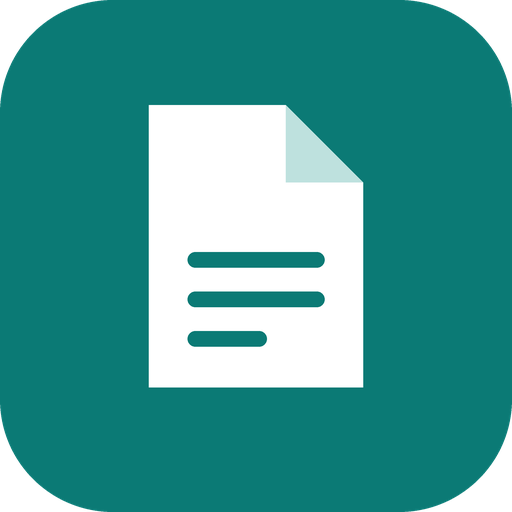
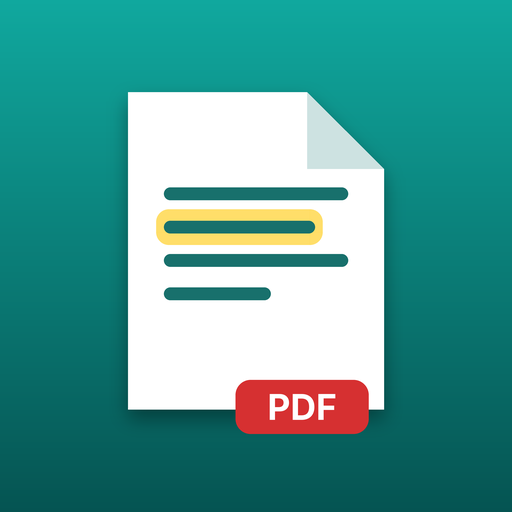
v16: multilingue fr/en, À propos et licences, partage natif, nouvelle icône, pages confidentialité et support
Claude-Session: https://claude.ai/code/session_01PmVsqk67Q3FkcGywPKM6xi

diff --git a/app.js b/app.js
@@ -64,6 +64,7 @@ const clamp=(v,a,b)=>Math.min(b,Math.max(a,v));
 const ZSTEPS=[.25,.33,.5,.67,.75,.9,1,1.1,1.25,1.5,1.75,2,2.5,3,4];
 
 let toastT=0;
+window.__toast=(m,ms)=>toast(m,ms);
 function toast(msg,ms){const t=$('#toast');t.textContent=msg;t.hidden=false;clearTimeout(toastT);toastT=setTimeout(()=>{t.hidden=true},PWA?3000:(ms||3600))}
 function busy(on,msg){const b=$('#busy');b.hidden=!on;if(msg)b.textContent=msg}
 
@@ -966,7 +967,7 @@ function updateCnt(){
 function renderList(){
   const box=$('#sList');
   if(!S.hits.length){
-    box.innerHTML=(S.q&&S.q.trim()&&!/Expression/.test($('#sCnt').textContent))?'<div class="sn">Aucun résultat.</div>':'';
+    box.innerHTML=(S.q&&S.q.trim()&&!/xpression/i.test($('#sCnt').textContent))?'<div class="sn">Aucun résultat.</div>':'';
     return;
   }
   const per={};for(const h of S.hits)per[h.n]=(per[h.n]||0)+1;
@@ -1097,7 +1098,7 @@ function updateCnt2(){
 function renderList2(){
   const box=$('#sList2');
   if(!S.hits2.length){
-    box.innerHTML=(S.q2&&S.q2.trim()&&!/Expression/.test($('#sCnt2').textContent))?'<div class="sn">Aucun résultat.</div>':'';
+    box.innerHTML=(S.q2&&S.q2.trim()&&!/xpression/i.test($('#sCnt2').textContent))?'<div class="sn">Aucun résultat.</div>':'';
     return;
   }
   const per={};for(const h of S.hits2)per[h.n]=(per[h.n]||0)+1;
@@ -3001,6 +3002,16 @@ const mobileDL={share:true,save({filename,data}){
     ov.innerHTML='<div class="box savebox"><h2>Enregistrer le fichier</h2><input class="inp" id="svName" aria-label="Nom du fichier" autocapitalize="off" autocomplete="off" spellcheck="false"><small>'+mb+' Mo · PDF</small><div class="row"><button class="btn primary" id="svShare">Choisir l\u2019emplacement…</button></div><div class="row">'+(NATIVE?'':'<button class="btn" id="svDl">Télécharger</button>')+'<button class="btn" id="svNo">Annuler</button></div><small>'+(NATIVE?'Le sélecteur de fichiers de l\u2019iPhone s\u2019ouvre : choisissez le dossier (iCloud Drive, Sur mon iPhone, OneDrive…).':'« Choisir l\u2019emplacement » ouvre le menu du téléphone : choisissez <b>Enregistrer dans Fichiers</b> (iPhone) ou votre application de stockage (Android).')+'</small></div>';
     document.body.append(ov);
     const inp=ov.querySelector('#svName');inp.value=base;
+    if(NATIVE){
+      /* iPhone app: also offer the system share sheet (Mail, Messages, AirDrop…) */
+      const sb=document.createElement('button');sb.className='btn';sb.id='svNat';sb.textContent='Partager…';
+      ov.querySelector('.row').appendChild(sb);
+      sb.onclick=async()=>{
+        const b64=await new Promise((ok,ko)=>{const fr=new FileReader();fr.onload=()=>ok(String(fr.result).split(',')[1]||'');fr.onerror=ko;fr.readAsDataURL(data)});
+        window.webkit.messageHandlers.letuspdf.postMessage({type:'share',name:nm(),b64});
+        close();res();
+      };
+    }
     const nm=()=>(inp.value.trim().replace(/[\\/:*?"<>|]+/g,'-')||base).replace(/\.pdf$/i,'')+'.pdf';
     const close=()=>ov.remove();
     ov.querySelector('#svNo').onclick=()=>{close();const e=new Error('declined');e.code='declined';rej(e)};
@@ -3454,7 +3465,7 @@ if(PWA){
 
 /* ---------- phone layout: header, bottom tool bar and "Plus" sheet (installed web app, small touch screen) ---------- */
 if(PWA){
-  const APP_VER='v15';
+  const APP_VER='v16';
   const root=document.documentElement,mq=matchMedia('(pointer:coarse) and (max-width:700px)');
   const setPhone=()=>root.classList.toggle('phone',mq.matches);
   setPhone();(mq.addEventListener?mq.addEventListener('change',setPhone):mq.addListener(setPhone));
@@ -3516,6 +3527,29 @@ if(PWA){
   const sheet=$('#msheet');
   const close=()=>{sheet.hidden=true;sheetOpen=false};
   const toolOn=sel=>{const e=q(sel);return !!(e&&e.classList.contains('on'))};
+
+  /* About screen: version, privacy, support and the open-source licences the app has to display */
+  const SITE='https://gclaudel2.github.io/letuspdf/';
+  function showAbout(){
+    let o=$('#mAbout');if(o)o.remove();
+    o=document.createElement('div');o.id='mAbout';
+    o.style.cssText='position:fixed;inset:0;z-index:70;background:var(--bg);color:var(--fg,inherit);overflow:auto;-webkit-overflow-scrolling:touch;padding:max(18px,env(safe-area-inset-top)) 18px max(24px,env(safe-area-inset-bottom));font-size:15px;line-height:1.5';
+    const MIT=(n)=>'<p><b>'+n+'</b> — MIT License</p>';
+    o.innerHTML='<div style="display:flex;align-items:center;gap:12px;margin-bottom:14px"><button class="btn" id="abX" style="min-height:44px">Fermer</button><h2 style="margin:0;font-size:20px">Let Us PDF <small style="font-weight:400;opacity:.6">'+APP_VER+'</small></h2></div>'
+      +'<p>Lire et modifier un PDF. Rien n’est envoyé : tout reste sur votre appareil.</p>'
+      +'<p><a href="'+SITE+'privacy.html" target="_blank" rel="noopener">Politique de confidentialité</a><br><a href="'+SITE+'support.html" target="_blank" rel="noopener">Aide et contact</a></p>'
+      +'<h3 style="margin:22px 0 6px;font-size:17px">Licences / Open-source licenses</h3>'
+      +'<div lang="en" style="font-size:13px;opacity:.9">'
+      +'<p>Let Us PDF uses the following open-source software.</p>'
+      +'<p><b>PDF.js</b> — Copyright Mozilla Foundation — Apache License 2.0<br>https://github.com/mozilla/pdf.js</p>'
+      +'<p><b>pdf-lib</b> — Copyright (c) 2019 Andrew Dillon — MIT License<br>https://github.com/Hopding/pdf-lib<br>(includes tslib, Copyright Microsoft Corporation, Apache License 2.0 / 0BSD, and pako, MIT/Zlib)</p>'
+      +'<p><b>fontkit (@pdf-lib/fontkit)</b> — Copyright (c) 2014-present Devon Govett and contributors — MIT License<br>https://github.com/Hopding/fontkit<br>(includes restructure, brotli, unicode-properties, unicode-trie, tiny-inflate, dfa, clone and pako, all MIT)</p>'
+      +'<p><b>Apache License, Version 2.0</b><br>Licensed under the Apache License, Version 2.0 (the “License”); you may not use these components except in compliance with the License. You may obtain a copy of the License at https://www.apache.org/licenses/LICENSE-2.0. Unless required by applicable law or agreed to in writing, software distributed under the License is distributed on an “AS IS” BASIS, WITHOUT WARRANTIES OR CONDITIONS OF ANY KIND, either express or implied. See the License for the specific language governing permissions and limitations under the License.</p>'
+      +'<p><b>MIT License</b><br>Permission is hereby granted, free of charge, to any person obtaining a copy of this software and associated documentation files (the “Software”), to deal in the Software without restriction, including without limitation the rights to use, copy, modify, merge, publish, distribute, sublicense, and/or sell copies of the Software, and to permit persons to whom the Software is furnished to do so, subject to the following conditions: The above copyright notice and this permission notice shall be included in all copies or substantial portions of the Software. THE SOFTWARE IS PROVIDED “AS IS”, WITHOUT WARRANTY OF ANY KIND, EXPRESS OR IMPLIED, INCLUDING BUT NOT LIMITED TO THE WARRANTIES OF MERCHANTABILITY, FITNESS FOR A PARTICULAR PURPOSE AND NONINFRINGEMENT. IN NO EVENT SHALL THE AUTHORS OR COPYRIGHT HOLDERS BE LIABLE FOR ANY CLAIM, DAMAGES OR OTHER LIABILITY, WHETHER IN AN ACTION OF CONTRACT, TORT OR OTHERWISE, ARISING FROM, OUT OF OR IN CONNECTION WITH THE SOFTWARE OR THE USE OR OTHER DEALINGS IN THE SOFTWARE.</p>'
+      +'</div>';
+    document.body.appendChild(o);
+    $('#abX').onclick=()=>o.remove();
+  }
   function drawSheet(){
     $('#mTabs').innerHTML=Object.keys(TABS).map(t=>'<button data-t="'+t+'"'+(t===tab?' class="on"':'')+'>'+t+'</button>').join('');
     const body=$('#mBody');
@@ -3523,7 +3557,9 @@ if(PWA){
       body.innerHTML='<div class="mzoom"><button class="btn" id="zM" aria-label="Zoom arrière">'+ICONS.minus+'</button><span class="zl" id="zL"></span><button class="btn" id="zP" aria-label="Zoom avant">'+ICONS.plus+'</button></div>'
         +'<div class="mgrid"><button id="zFit">'+ICONS.doc+'Ajuster à la page</button></div>'
         +'<div class="mrow"><label for="mPg">Aller à la page</label><input class="inp num" id="mPg" inputmode="numeric" style="width:84px"><span class="lbl" id="mPgT"></span></div>'
-        +'<div class="mrow"><label for="mTh">Thème</label><select class="inp" id="mTh"><option value="auto">Automatique</option><option value="light">Clair</option><option value="dark">Sombre</option></select></div>';
+        +'<div class="mrow"><label for="mTh">Thème</label><select class="inp" id="mTh"><option value="auto">Automatique</option><option value="light">Clair</option><option value="dark">Sombre</option></select></div>'
+        +'<div class="mgrid" style="grid-template-columns:1fr"><button id="mAboutB">'+ICONS.doc+'À propos, confidentialité et licences</button></div>';
+      $('#mAboutB').onclick=()=>{close();showAbout()};
       $('#zM').onclick=()=>click('#bZout');$('#zP').onclick=()=>click('#bZin');
       $('#zFit').onclick=()=>{click('#bFitP')};
       const pg=$('#mPg');pg.value=$('#pgIn').value;$('#mPgT').textContent=$('#pgTot').textContent;
@@ -3590,4 +3626,101 @@ if(PWA){
     syncSheet();
   },250);
 }
+})();
+
+/* ---------- i18n: French (source language) -> English, chosen from the phone's language or the Langue setting ---------- */
+(function(){
+  'use strict';
+  const KEY='letuspdf-lang';
+  let pref='auto';try{pref=localStorage.getItem(KEY)||'auto'}catch(e){}
+  const sys=((navigator.languages&&navigator.languages[0])||navigator.language||'fr').toLowerCase();
+  const LANG=pref==='fr'||pref==='en'?pref:(sys.indexOf('fr')===0?'fr':'en');
+  document.documentElement.lang=LANG;
+  const DICT={"Accueil": "Home", "Affiche le document deux fois, côte à côte, avec navigation et recherche indépendantes": "Shows the document twice, side by side, with independent navigation and search", "Ajouter du texte (T)": "Add text (T)", "Ajouter du texte, des images, des surlignages": "Add text, images, highlights", "Ajouter ou gérer des polices": "Add or manage fonts", "Ajouter une image (I)": "Add an image (I)", "Ajouter, modifier ou supprimer un commentaire (N)": "Add, edit or delete a comment (N)", "Ajouter, modifier ou supprimer un lien hypertexte (L)": "Add, edit or delete a hyperlink (L)", "Aller à la page": "Go to page", "Annuler": "Undo", "Annuler (Ctrl+Z)": "Undo (Ctrl+Z)", "Automatique": "Automatic", "Capture": "Capture", "Capture d'une zone du document (C)": "Capture an area of the document (C)", "Capture sélectionnée": "Capture selected", "Chargement…": "Loading…", "Choisir un PDF": "Choose a PDF", "Clair": "Light", "Coller les pages copiées après la page sélectionnée (Ctrl+V dans les miniatures)": "Paste the copied pages after the selected page (Ctrl+V in the thumbnails)", "Copier": "Copy", "Copier les pages sélectionnées (Ctrl+C dans les miniatures), pour les coller dans un autre onglet": "Copy the selected pages (Ctrl+C in the thumbnails) to paste them into another tab", "Descendre les pages sélectionnées": "Move the selected pages down", "Document": "Document", "Document protégé": "Protected document", "Documents ouverts": "Open documents", "Email": "Email", "Enregistrer": "Save", "Enregistrer (Ctrl+S)": "Save (Ctrl+S)", "Enregistrer sous": "Save as", "Enregistrer sous… (Ctrl+Maj+S)": "Save as… (Ctrl+Shift+S)", "Expression régulière": "Regular expression", "Expression régulière (équivalent des caractères génériques de Word)": "Regular expression (like Word's wildcards)", "Fermer": "Close", "Fermer (Échap)": "Close (Esc)", "Fermer ce document fera perdre les modifications en cours.": "Closing this document will discard your unsaved changes.", "Fermer sans enregistrer": "Close without saving", "Fonctions spéciales": "Special functions", "Fusionner": "Merge", "Fusionner : choisir un autre PDF et ajouter toutes ses pages à la fin de celui-ci": "Merge: pick another PDF and add all its pages at the end of this one", "Glissez un fichier ici ou choisissez-le sur votre appareil. Rien n'est envoyé : tout reste dans votre navigateur.": "Drop a file here or choose one on your device. Nothing is uploaded: everything stays on your device.", "Ignorer les accents (é = e)": "Ignore accents (é = e)", "Image": "Image", "Importer des fichiers…": "Import files…", "Insérer une page vide après": "Insert a blank page after", "Invoice → CN": "Invoice → CN", "Le PDF modifié ne peut incorporer que des polices dont le navigateur a le fichier. Ajoutez celles du document pour retrouver exactement le même rendu : les fichiers .ttf ou .otf se trouvent dans le dossier des polices de votre ordinateur. Sinon, la police standard la plus proche est utilisée.": "The edited PDF can only embed fonts whose file is available. Add the document's fonts to get exactly the same look: the .ttf or .otf files are in your computer's font folder. Otherwise the closest standard font is used.", "Le remplacement recouvre le texte d'origine et insère le nouveau (comme « Modifier le texte »). Un résultat réparti sur plusieurs lignes ne peut pas être remplacé.": "Replacing covers the original text and inserts the new one (like “Edit text”). A result spread over several lines cannot be replaced.", "Lecture": "Read", "Lien": "Link", "Lire et modifier un PDF": "Read and edit a PDF", "Menu": "Menu", "Miniatures": "Thumbnails", "Modifications non enregistrées": "Unsaved changes", "Modifier": "Edit", "Modifier le texte existant (E)": "Edit existing text (E)", "Modifier le texte existant d'un clic": "Edit existing text with a click", "Monter les pages sélectionnées": "Move the selected pages up", "Mot": "Word", "Mot de passe": "Password", "Mot entier": "Whole word", "Nom du fichier": "File name", "Note": "Note", "Options du texte": "Text options", "Outils": "Tools", "Ouvre le client e-mail avec le PDF actif en pièce jointe": "Opens your email app with the current PDF attached", "Ouvrir": "Open", "Page": "Page", "Page précédente": "Previous page", "Page suivante": "Next page", "Pages du document": "Document pages", "Parcourir…": "Browse…", "Pivoter les pages sélectionnées à droite": "Rotate the selected pages right", "Pivoter les pages sélectionnées à gauche": "Rotate the selected pages left", "Pivoter, déplacer, supprimer des pages": "Rotate, move, delete pages", "Plus": "More", "Polices": "Fonts", "Rechercher": "Search", "Rechercher (Ctrl+F)": "Search (Ctrl+F)", "Rechercher (deuxième vue)": "Search (second view)", "Rechercher (vue 2)": "Search (view 2)", "Rechercher dans le document": "Search the document", "Rechercher et remplacer": "Find and replace", "Rectangle": "Rectangle", "Rectangle ou masque (R)": "Rectangle or mask (R)", "Remplace Invoice par CreditNote, supprime la date limite et passe les montants en négatif": "Replaces Invoice with CreditNote, removes the due date and turns the amounts negative", "Remplacer": "Replace", "Remplacer par": "Replace with", "Respecter la casse": "Match case", "Rester ici": "Stay here", "Résultat précédent (Maj+Entrée)": "Previous result (Shift+Enter)", "Résultat suivant (Entrée)": "Next result (Enter)", "Résultats": "Results", "Résultats (vue 2)": "Results (view 2)", "Rétablir (Ctrl+Y)": "Redo (Ctrl+Y)", "Saisissez le mot de passe pour ouvrir ce PDF.": "Enter the password to open this PDF.", "Sombre": "Dark", "Spécial": "Special", "Stylo": "Pen", "Stylo (P)": "Pen (P)", "Supprimer les pages sélectionnées": "Delete the selected pages", "Surligner": "Highlight", "Surligner (H)": "Highlight (H)", "Sélection et lecture (V)": "Select and read (V)", "Texte": "Text", "Thème": "Theme", "Thème de l'interface": "Interface theme", "Tout remplacer": "Replace all", "Télécharger": "Download", "Utiliser les polices de l'ordinateur": "Use the computer's fonts", "Zoom arrière (Ctrl+-)": "Zoom out (Ctrl+-)", "Zoom avant (Ctrl++)": "Zoom in (Ctrl++)", "▸ Remplacer": "▸ Replace", "Fichier": "File", "Affichage": "View", "Pages": "Pages", "Page vide": "Blank page", "Pivoter à gauche": "Rotate left", "Pivoter à droite": "Rotate right", "Monter": "Move up", "Descendre": "Move down", "Coller": "Paste", "Supprimer": "Delete", "Ouvrir un PDF": "Open a PDF", "Partager / envoyer": "Share / send", "Enregistrer dans Fichiers": "Save to Files", "Rétablir": "Redo", "Ajuster à la page": "Fit to page", "Zoom arrière": "Zoom out", "Zoom avant": "Zoom in", "Choisir l'emplacement…": "Choose location…", "Ouvrir avec": "Open with", "Ouvrir avec…": "Open with…", "Application…": "Application…", "Auteur": "Author", "Utilisateur": "User", "Commentaire vide": "Empty comment", "Lien sans adresse": "Link without address", "Copier la page": "Copy page", "Copie…": "Copying…", "Capture…": "Capturing…", "Fusion…": "Merging…", "Remplacement…": "Replacing…", "Insertion de l'image…": "Inserting image…", "Préparation du fichier…": "Preparing file…", "Préparation de l'e-mail…": "Preparing email…", "Conversion en note de crédit…": "Converting to credit note…", "Lecture des polices…": "Reading fonts…", "Lecture des polices de l'ordinateur…": "Reading the computer's fonts…", "Aucun fichier récent": "No recent files", "Aucun résultat": "No results", "Aucun résultat.": "No results.", "Mot de passe incorrect": "Incorrect password", "Ouverture annulée.": "Opening cancelled.", "Zone trop petite.": "Area too small.", "Fichier enregistré.": "File saved.", "Image copiée dans le presse-papiers.": "Image copied to the clipboard.", "Rétablir l'original": "Restore original", "Supprimer ce commentaire": "Delete this comment", "Aller à la page liée": "Go to linked page", "Écrivez votre commentaire…": "Write your comment…", "Touchez un texte du document pour le modifier.": "Tap text in the document to edit it.", "Touchez la page à l'endroit où ajouter du texte.": "Tap the page where you want to add text.", "Touchez longuement un mot puis glissez pour surligner.": "Long-press a word, then drag to highlight.", "Faites glisser sur la page pour dessiner un rectangle.": "Drag on the page to draw a rectangle.", "Dessinez à main levée sur la page.": "Draw freehand on the page.", "Faites glisser sur la page pour capturer une zone en image.": "Drag on the page to capture an area as an image.", "Faites glisser sur la page pour créer un lien. Cliquez sur un lien existant pour le modifier ou le supprimer.": "Drag on the page to create a link. Tap an existing link to edit or delete it.", "Cliquez sur la page à l'endroit où ajouter un commentaire. Cliquez sur un commentaire existant pour le modifier ou le supprimer.": "Tap the page where you want to add a comment. Tap an existing comment to edit or delete it.", "Cliquez sur la page pour placer un commentaire.": "Tap the page to place a comment.", "Faites glisser sur la page pour créer un lien.": "Drag on the page to create a link.", "Impossible d'ouvrir ce fichier.": "Unable to open this file.", "Impossible d'ouvrir le sélecteur de fichier.": "Unable to open the file picker.", "Fichier introuvable : il a peut-être été déplacé ou supprimé.": "File not found: it may have been moved or deleted.", "Impossible de rouvrir ce fichier.": "Unable to reopen this file.", "Utilisez « Parcourir… » pour rouvrir ce fichier.": "Use “Browse…” to reopen this file.", "Autorisation refusée pour ce fichier.": "Permission denied for this file.", "Impossible de rouvrir ce fichier : il a peut-être été déplacé ou supprimé.": "Unable to reopen this file: it may have been moved or deleted.", "Impossible d'ouvrir ce fichier : est-il bien un PDF valide ?": "Unable to open this file: is it a valid PDF?", "Ouvrez un document avant d'activer la vue partagée.": "Open a document before turning on the split view.", "Vue partagée activée : chaque vue défile, zoome et recherche indépendamment.": "Split view on: each view scrolls, zooms and searches independently.", "Ce lien ne pointe vers rien de reconnu.": "This link doesn't point to anything recognised.", "Impossible de suivre ce lien.": "Unable to follow this link.", "Ce résultat ne peut pas être remplacé automatiquement (texte sur plusieurs lignes ou pivoté).": "This result can't be replaced automatically (multi-line or rotated text).", "La capture a échoué.": "The capture failed.", "Ce texte est pivoté : sa modification n'est pas prise en charge.": "This text is rotated: editing it is not supported.", "Impossible de charger le module de polices (connexion nécessaire).": "Unable to load the font module (connection needed).", "Aucune police valide trouvée (formats acceptés : .ttf et .otf).": "No valid font found (accepted formats: .ttf and .otf).", "Cette fonction n'est pas disponible dans ce navigateur.": "This feature isn't available in this browser.", "Import déjà en cours, merci de patienter…": "Import already in progress, please wait…", "Accès aux polices refusé ou indisponible dans cette vue. Importez plutôt les fichiers de police.": "Font access denied or unavailable here. Import the font files instead.", "Ce PDF est protégé par un mot de passe : il ne peut pas être modifié.": "This PDF is password-protected: it can't be edited.", "Ce PDF est protégé par un mot de passe : il peut être lu, mais pas enregistré après modification.": "This PDF is password-protected: it can be read, but not saved after editing.", "Ce PDF est protégé par un mot de passe : il peut être lu, mais pas réenregistré pour l'envoyer.": "This PDF is password-protected: it can be read, but not saved again to send it.", "Ce PDF est chiffré : ses liens et commentaires existants peuvent être suivis mais pas modifiés.": "This PDF is encrypted: its existing links and comments can be followed but not edited.", "Les PDF protégés par mot de passe ne peuvent pas être modifiés.": "Password-protected PDFs can't be edited.", "Les PDF protégés par mot de passe ne peuvent pas être copiés.": "Password-protected PDFs can't be copied.", "Les liens ou commentaires existants de ce PDF ne peuvent pas être modifiés (structure du fichier non lisible).": "The existing links or comments in this PDF can't be edited (unreadable file structure).", "La conversion a échoué": "The conversion failed", "Rien à convertir : aucun texte « Invoice » ni montant reconnu dans ce document.": "Nothing to convert: no “Invoice” text or amount found in this document.", "Ouvrez d'abord un PDF.": "Open a PDF first.", "Ce fichier n'est pas une image.": "This file isn't an image.", "Impossible d'insérer cette image.": "Unable to insert this image.", "Ce fichier n'est pas un PDF.": "This file isn't a PDF.", "La copie a échoué : votre navigateur ne le permet peut-être pas ici.": "Copy failed: your browser may not allow it here.", "Le téléchargement a échoué.": "The download failed.", "Impossible d'ouvrir ce lien.": "Unable to open this link.", "Ce lien n'a pas encore d'adresse.": "This link has no address yet.", "Une police ajoutée n'a pas pu être incorporée : la police standard la plus proche a été utilisée.": "An added font couldn't be embedded: the closest standard font was used.", "L'enregistrement n'est pas disponible dans cette vue.": "Saving isn't available in this view.", "Une demande d'enregistrement est déjà ouverte.": "A save request is already open.", "L'enregistrement a échoué.": "Saving failed.", "L'envoi par e-mail n'est pas disponible dans cette vue.": "Sending by email isn't available in this view.", "L'envoi par e-mail a échoué.": "Sending by email failed.", "Impossible de supprimer toutes les pages.": "Can't delete all the pages.", "Cette opération a échoué.": "This operation failed.", "Ce fichier n'est pas un PDF valide, ou il est protégé par mot de passe.": "This file isn't a valid PDF, or it is password-protected.", "Ce PDF ne contient aucune page.": "This PDF has no pages.", "La copie a échoué.": "Copy failed.", "Aucune page copiée : utilisez d'abord « Copier » sur une page.": "No pages copied: use “Copy” on a page first.", "Ouvrez un PDF pour le lire et le modifier. Rien n'est envoyé : tout reste sur votre appareil.": "Open a PDF to read and edit it. Nothing is uploaded: everything stays on your device.", "Retour au document": "Back to document", "Fermer ce document": "Close this document", "Fermer l'onglet": "Close tab", "Le sélecteur de fichiers de l'iPhone s'ouvre : choisissez le dossier (iCloud Drive, Sur mon iPhone, OneDrive…).": "The iPhone file picker opens: choose a folder (iCloud Drive, On My iPhone, OneDrive…).", "« Choisir l'emplacement » ouvre le menu du téléphone : choisissez Enregistrer dans Fichiers (iPhone) ou votre application de stockage (Android).": "“Choose location” opens the phone menu: choose Save to Files (iPhone) or your storage app (Android).", "Ajuster": "Fit", "Adresse web": "Web address", "Page du document": "Document page", "Tester": "Test", "Dupliquer": "Duplicate", "Gras": "Bold", "Italique": "Italic", "Police": "Font", "Taille": "Size", "Couleur": "Color", "Épaisseur": "Thickness", "Contour": "Outline", "Remplissage": "Fill", "Type de lien": "Link type", "Adresse du lien": "Link address", "Couleur de remplissage": "Fill color", "Couleur du contour": "Outline color", "Couleur du stylo": "Pen color", "Couleur du surlignage": "Highlight color", "Couleur du texte": "Text color", "Numéro de page": "Page number", "Épaisseur du contour": "Outline thickness", "Épaisseur du trait": "Stroke thickness", "Supprimer (Suppr)": "Delete (Del)", "Tester le lien": "Test link", "https://exemple.com ou adresse e-mail": "https://example.com or email address", "Aa": "Aa", "Langue": "Language", "Choisir la langue": "Choose language", "Écriture directe impossible, nouvelle tentative via le dialogue du système.": "Direct writing isn't possible, trying again through the system dialog.", "Pour installer : touchez": "To install: tap", "Partager": "Share", "puis": "then", "Sur l'écran d'accueil": "Add to Home Screen", "Aucune police ajoutée. Les polices standard (Helvetica, Times, Courier) sont toujours disponibles.": "No fonts added. The standard fonts (Helvetica, Times, Courier) are always available.", "Les polices ajoutées sont conservées sur cet appareil (hors connexion aussi).": "Added fonts are kept on this device (offline too).", "À propos, confidentialité et licences": "About, privacy and licenses", "Politique de confidentialité": "Privacy policy", "Aide et contact": "Help and contact", "Licences / Open-source licenses": "Open-source licenses", "Lire et modifier un PDF. Rien n'est envoyé : tout reste sur votre appareil.": "Read and edit a PDF. Nothing is uploaded: everything stays on your device.", "Rien n'est envoyé : tout reste sur votre appareil.": "Nothing is uploaded: everything stays on your device.", "Partager…": "Share…", "Enregistrer le fichier": "Save file", "Licences": "Licenses", "Licences des composants open source": "Open-source component licenses", "À propos": "About", "Confidentialité": "Privacy"};
+  const FRAG=[["). Si cela persiste après avoir ouvert plusieurs documents, fermez quelques onglets ou redémarrez l'application.", "). If this persists after opening several documents, close a few tabs or restart the app."], [" autres résultats : affinez la recherche pour les lister. Les boutons ↑ ↓ les parcourent tous.", " more results: refine the search to list them. The ↑ ↓ buttons step through all of them."], ["(ATTENTION : non conservée(s) au redémarrage, voir message ci-dessus)", "(WARNING: not kept after restart, see message above)"], [" ne sera pas retrouvée au redémarrage (serveur local inaccessible : ", " won't be found after restart (local server unreachable: "], [" ne sera pas retrouvée au redémarrage (enregistrement refusé : ", " won't be found after restart (saving refused: "], [" autres résultats : affinez la recherche pour les lister.", " more results: refine the search to list them."], [". Ouvrez l'autre document puis cliquez sur « Coller ».", ". Open the other document, then tap “Paste”."], ["Ajoutez une police complète pour les conserver.", "Add a complete font to keep them."], [" ne sera pas conservée sur cet appareil (", " won't be kept on this device ("], ["Impossible d'ouvrir le client e-mail : ", "Unable to open the email app: "], [" (texte sur plusieurs lignes ou pivoté)", " (multi-line or rotated text)"], ["Impossible d'ouvrir ce fichier (", "Unable to open this file ("], ["Impossible de générer le PDF : ", "Unable to generate the PDF: "], ["non conservée(s) au redémarrage", "not kept after restart"], ["lecture du contenu impossible", "content can't be read"], [" de l'ordinateur disponibles", " from the computer available"], [" de l'ordinateur disponible", " from the computer available"], ["conservée(s) au redémarrage", "kept after restart"], ["La conversion a échoué : ", "The conversion failed: "], ["conservées au redémarrage", "kept after restart"], ["conservée au redémarrage", "kept after restart"], ["Enregistrées dans : ", "Saved in: "], ["Police d'origine : ", "Original font: "], ["Aller à la page ", "Go to page "], [" ligne supprimée", " line removed"], ["erreur inconnue", "unknown error"], ["Invoice → CN : ", "Invoice → CN: "], ["Introuvable : ", "Not found: "], ["Remplacée par ", "Replaced by "], ["« CreditNote »", "“CreditNote”"], [" ne sera pas", " won't be"], [" en négatif", " made negative"], ["« Date »", "“Date”"], [" copiée", " copied"], ["Page ", "Page "]];
+  const nrm=s=>s.replace(/’/g,"'").replace(/[  ]/g,' ').replace(/\s+/g,' ').trim();
+  const pl=(n,a,b)=>n>1?b:a;
+  const PAT=[
+    [/^(\d+) remplacements? effectués?(?: · (\d+) ignorés? \(texte sur plusieurs lignes ou pivoté\))?\.$/,(m)=>m[1]+' replacement'+pl(+m[1],'','s')+' made'+(m[2]?' · '+m[2]+' skipped (multi-line or rotated text)':'')+'.'],
+    [/^(\d+) polices? ajoutées?(.*)$/,(m)=>m[1]+' font'+pl(+m[1],'','s')+' added'+fr(m[2])],
+    [/^(\d+) polices? de l'ordinateur disponibles?(.*)$/,(m)=>m[1]+' font'+pl(+m[1],'','s')+' from the computer available'+fr(m[2])],
+    [/^(\d+) caractères? non pris en charge par la police (?:ont|a) été remplacés?\. Ajoutez une police complète pour les conserver\.$/,(m)=>m[1]+' character'+pl(+m[1],'','s')+' not supported by the font '+pl(+m[1],'was','were')+' replaced. Add a complete font to keep them.'],
+    [/^(\d+) pages? (ajoutées?|collées?|insérées?|dupliquées?)\.$/,(m)=>m[1]+' page'+pl(+m[1],'','s')+' '+({a:'added',c:'pasted',i:'inserted',d:'duplicated'})[m[2][0]]+'.'],
+    [/^(\d+) pages copiées\. Ouvrez l'autre document puis cliquez sur « Coller »\.$/,(m)=>m[1]+' pages copied. Open the other document, then tap “Paste”.'],
+    [/^Page (\d+) copiée\. Ouvrez l'autre document puis cliquez sur « Coller »\.$/,(m)=>'Page '+m[1]+' copied. Open the other document, then tap “Paste”.'],
+    [/^Invoice → CN : (\d+) « CreditNote », (\d+) « Date », (\d+) ligne supprimée, (\d+) montants? passés? en négatif\.$/,(m)=>'Invoice → CN: '+m[1]+' “CreditNote”, '+m[2]+' “Date”, '+m[3]+' line removed, '+m[4]+' amount'+pl(+m[4],'','s')+' made negative.'],
+    [/^Page (\d+) · (\d+) résultats?$/,(m)=>'Page '+m[1]+' · '+m[2]+' result'+pl(+m[2],'','s')],
+    [/^Le client e-mail s'ouvre avec « (.+) » en pièce jointe\.$/,(m)=>'The email app opens with “'+m[1]+'” attached.'],
+    [/^« (.+) » téléchargé : joignez-le au brouillon qui vient de s'ouvrir\.$/,(m)=>'“'+m[1]+'” downloaded: attach it to the draft that just opened.'],
+    [/^« (.+) » contient des modifications non enregistrées\. Les fermer les fera perdre\.$/,(m)=>'“'+m[1]+'” has unsaved changes. Closing will discard them.'],
+    [/^(\d+) documents? contien(?:nen|)t des modifications non enregistrées\.?(.*)$/,(m)=>m[1]+' document'+pl(+m[1],' has',' have')+' unsaved changes.'+fr(m[2])],
+  ];
+  function fr(s){return s?frag(s):''}
+  function frag(s){let out=s,hit=false;for(const [a,b] of FRAG){if(out.indexOf(a)>=0){out=out.split(a).join(b);hit=true}}return out}
+  function tr(s){
+    if(LANG==='fr'||!s)return s;
+    const core=nrm(s);if(!core)return s;
+    let r=DICT[core];
+    if(r===undefined){for(const [re,fn] of PAT){const m=re.exec(core);if(m){r=fn(m);break}}}
+    if(r===undefined&&/[a-zà-ÿ]/i.test(core)){const f=frag(core);if(f!==core)r=f}
+    if(r===undefined)return s;
+    const a=/^\s*/.exec(s)[0],b=/\s*$/.exec(s)[0];
+    return a+r+b;
+  }
+  window.__tr=tr;window.__lang=LANG;
+  /* a few things that were compared with the French text */
+  if(LANG!=='fr'){
+    for(const f of ['alert','confirm','prompt']){const o=window[f];if(o)window[f]=function(m,d){return o.call(window,tr(String(m)),d)}}
+  }
+  const SKIP='#pages,#pages2,#thumbs,#thumbs2,script,style,textarea,[contenteditable="true"],[contenteditable="plaintext-only"]';
+  const skip=el=>!el||(el.closest&&el.closest(SKIP));
+  const ATTRS=['title','placeholder','aria-label','alt'];
+  function doText(t){const p=t.parentElement;if(skip(p))return;const v=t.nodeValue;if(!v||!v.trim())return;let r=tr(v);if(nrm(v)==='Annuler'&&p.closest('.box,#modal,#modal2,#modal3,#modal4'))r=v.replace('Annuler','Cancel');if(r!==v)t.nodeValue=r}
+  function doEl(el){
+    if(el.nodeType!==1||skip(el))return;
+    for(const a of ATTRS){const v=el.getAttribute(a);if(v){const r=tr(v);if(r!==v)el.setAttribute(a,r)}}
+  }
+  function walk(root){
+    if(root.nodeType===3){doText(root);return}
+    if(root.nodeType!==1||skip(root))return;
+    doEl(root);
+    const w=document.createTreeWalker(root,NodeFilter.SHOW_ELEMENT|NodeFilter.SHOW_TEXT);
+    let n;while((n=w.nextNode())){if(n.nodeType===3)doText(n);else if(n.closest&&n.closest(SKIP))continue;else doEl(n)}
+  }
+  function langRows(){
+    const mk=(id,cls)=>{const s=document.createElement('select');s.id=id;s.className=cls;
+      s.innerHTML='<option value="auto">Auto</option><option value="fr">Français</option><option value="en">English</option>';
+      s.value=pref;s.setAttribute('aria-label',LANG==='fr'?'Langue':'Language');
+      s.onchange=()=>{try{localStorage.setItem(KEY,s.value)}catch(e){}
+        const open=document.querySelector('#pages .page,#pages .pg,#pages>*');
+        if(open&&typeof window.__toast==='function'){window.__toast(s.value==='fr'||(s.value==='auto'&&sys.indexOf('fr')===0)?'La langue changera au prochain lancement.':'The language will change the next time you open the app.');}
+        else location.reload()};
+      return s};
+    const th=document.getElementById('mTh');
+    if(th&&!document.getElementById('mLang')){
+      const row=document.createElement('div');row.className='mrow';
+      const l=document.createElement('label');l.htmlFor='mLang';l.textContent=LANG==='fr'?'Langue':'Language';
+      row.appendChild(l);row.appendChild(mk('mLang','inp'));th.parentElement.insertAdjacentElement('afterend',row);
+    }
+    const ts=document.getElementById('themeSel');
+    if(ts&&!document.getElementById('langSel')){
+      const lab=ts.closest('label');const s=mk('langSel','inp');s.style.marginLeft='6px';
+      (lab||ts).insertAdjacentElement('afterend',s);
+    }
+  }
+  const mo=new MutationObserver(recs=>{
+    if(LANG!=='fr')for(const r of recs){
+      if(r.type==='characterData')doText(r.target);
+      else if(r.type==='attributes')doEl(r.target);
+      else r.addedNodes.forEach(walk);
+    }
+    langRows();
+    mo.takeRecords();
+  });
+  function start(){
+    if(LANG!=='fr'){walk(document.body);document.title=tr(document.title)}
+    langRows();
+    mo.observe(document.body,LANG!=='fr'?{subtree:true,childList:true,characterData:true,attributes:true,attributeFilter:ATTRS}:{subtree:true,childList:true});
+  }
+  start();
 })();

diff --git a/privacy.html b/privacy.html
@@ -1,0 +1,50 @@
+<!doctype html><html lang="fr"><head><meta charset="utf-8"><meta name="viewport" content="width=device-width,initial-scale=1"><title>Let Us PDF — Confidentialité / Privacy</title><link rel="icon" href="favicon32.png"><style>
+:root{--bg:#f5f6f8;--fg:#1c2330;--mut:#5a6577;--acc:#0b7a75;--card:#fff}
+@media(prefers-color-scheme:dark){:root{--bg:#10151c;--fg:#e8ecf2;--mut:#9aa6b8;--acc:#4fd1c5;--card:#18202b}}
+body{margin:0;background:var(--bg);color:var(--fg);font:16px/1.6 -apple-system,BlinkMacSystemFont,"Segoe UI",Roboto,sans-serif}
+main{max-width:720px;margin:0 auto;padding:28px 18px 60px}
+h1{font-size:26px;margin:0 0 4px}h2{font-size:19px;margin:28px 0 6px}
+.card{background:var(--card);border-radius:14px;padding:6px 20px 18px;margin:18px 0;box-shadow:0 1px 3px rgba(0,0,0,.08)}
+a{color:var(--acc)}.mut{color:var(--mut);font-size:14px}nav a{margin-right:14px}
+</style></head><body><main>
+<h1>Let Us PDF</h1><p class="mut">Dernière mise à jour / Last updated: 22/11/2026</p>
+<nav><a href="#fr">Français</a><a href="#en">English</a><a href="support.html">Support</a></nav>
+
+<div class="card" id="fr"><h2>Politique de confidentialité</h2>
+<p><b>Let Us PDF ne collecte aucune donnée personnelle.</b></p>
+<h2>Vos fichiers</h2>
+<p>Les PDF que vous ouvrez, modifiez ou enregistrez sont traités <b>uniquement sur votre appareil</b>. Ils ne sont jamais envoyés à un serveur, ni à nous, ni à un tiers.</p>
+<h2>Données stockées sur l'appareil</h2>
+<p>L'application conserve localement, sur votre appareil seulement : la liste des documents récents (noms et emplacements), vos préférences (thème, langue) et les polices que vous avez ajoutées. Ces données restent sur l'appareil et sont supprimées si vous désinstallez l'application.</p>
+<h2>Aucun suivi</h2>
+<p>L'application ne contient ni outil d'analyse, ni publicité, ni traceur, et ne vous suit pas entre les applications et sites web.</p>
+<h2>Autorisations</h2>
+<p><b>Appareil photo / photothèque :</b> uniquement lorsque vous choisissez d'insérer une photo ou une image dans un PDF. Les images ne quittent pas votre appareil.</p>
+<h2>Services tiers</h2>
+<p>Aucun. L'application fonctionne entièrement hors connexion. Les liens externes (par exemple un lien contenu dans un PDF) s'ouvrent dans Safari ou l'application correspondante, et relèvent alors de la politique de confidentialité du site visité.</p>
+<h2>Enfants</h2>
+<p>L'application ne collecte aucune donnée, y compris auprès des enfants.</p>
+<h2>Modifications</h2>
+<p>Si cette politique change, la nouvelle version sera publiée à cette adresse avec sa date.</p>
+<h2>Contact</h2>
+<p>Pour toute question : <a href="https://github.com/gclaudel2/letuspdf/issues">https://github.com/gclaudel2/letuspdf/issues</a></p></div>
+
+<div class="card" id="en"><h2>Privacy Policy</h2>
+<p><b>Let Us PDF does not collect any personal data.</b></p>
+<h2>Your files</h2>
+<p>The PDFs you open, edit or save are processed <b>only on your device</b>. They are never uploaded to any server — not to us, nor to any third party.</p>
+<h2>Data stored on the device</h2>
+<p>The app keeps locally, on your device only: the list of recent documents (names and locations), your preferences (theme, language) and the fonts you added. This data stays on the device and is removed if you uninstall the app.</p>
+<h2>No tracking</h2>
+<p>The app contains no analytics, no advertising and no trackers, and does not track you across apps and websites.</p>
+<h2>Permissions</h2>
+<p><b>Camera / Photo library:</b> only when you choose to insert a photo or an image into a PDF. Images never leave your device.</p>
+<h2>Third-party services</h2>
+<p>None. The app works entirely offline. External links (for example a link inside a PDF) open in Safari or the relevant app and are then covered by that site's own privacy policy.</p>
+<h2>Children</h2>
+<p>The app does not collect any data, including from children.</p>
+<h2>Changes</h2>
+<p>If this policy changes, the new version will be published at this address with its date.</p>
+<h2>Contact</h2>
+<p>Questions: <a href="https://github.com/gclaudel2/letuspdf/issues">https://github.com/gclaudel2/letuspdf/issues</a></p></div>
+</main></body></html>

diff --git a/support.html b/support.html
@@ -1,0 +1,25 @@
+<!doctype html><html lang="fr"><head><meta charset="utf-8"><meta name="viewport" content="width=device-width,initial-scale=1"><title>Let Us PDF — Support</title><link rel="icon" href="favicon32.png"><style>
+:root{--bg:#f5f6f8;--fg:#1c2330;--mut:#5a6577;--acc:#0b7a75;--card:#fff}
+@media(prefers-color-scheme:dark){:root{--bg:#10151c;--fg:#e8ecf2;--mut:#9aa6b8;--acc:#4fd1c5;--card:#18202b}}
+body{margin:0;background:var(--bg);color:var(--fg);font:16px/1.6 -apple-system,BlinkMacSystemFont,"Segoe UI",Roboto,sans-serif}
+main{max-width:720px;margin:0 auto;padding:28px 18px 60px}
+h1{font-size:26px;margin:0 0 4px}h2{font-size:19px;margin:28px 0 6px}
+.card{background:var(--card);border-radius:14px;padding:6px 20px 18px;margin:18px 0;box-shadow:0 1px 3px rgba(0,0,0,.08)}
+a{color:var(--acc)}.mut{color:var(--mut);font-size:14px}nav a{margin-right:14px}
+</style></head><body><main>
+<h1>Let Us PDF — Support</h1><nav><a href="#fr">Français</a><a href="#en">English</a><a href="privacy.html">Confidentialité / Privacy</a></nav>
+<div class="card" id="fr"><h2>Aide</h2>
+<h2>Ouvrir un PDF</h2><p>Touchez « Choisir un PDF », ou ouvrez un PDF depuis Fichiers, Mail ou Safari avec « Ouvrir avec Let Us PDF ».</p>
+<h2>Modifier</h2><p>Les boutons du bas permettent de <b>Modifier</b> un texte existant, d'ajouter du <b>Texte</b> ou une <b>Image</b>. « Plus » donne accès au stylo, au surligneur, aux formes, aux liens, aux notes, à la capture, aux pages et aux polices.</p>
+<h2>Enregistrer</h2><p>Touchez « Enregistrer », puis choisissez le dossier (iCloud Drive, Sur mon iPhone…).</p>
+<h2>Polices</h2><p>« Plus > Polices » permet d'ajouter vos propres polices (.ttf, .otf) pour retrouver exactement le rendu d'un document.</p>
+<h2>Langue</h2><p>« Plus > Affichage > Langue » : automatique (langue de l'iPhone), français ou anglais.</p>
+<h2>Une question, un problème ?</h2><p><a href="https://github.com/gclaudel2/letuspdf/issues">https://github.com/gclaudel2/letuspdf/issues</a></p></div>
+<div class="card" id="en"><h2>Help</h2>
+<h2>Open a PDF</h2><p>Tap “Choose a PDF”, or open a PDF from Files, Mail or Safari with “Open with Let Us PDF”.</p>
+<h2>Edit</h2><p>The bottom buttons let you <b>Edit</b> existing text, add <b>Text</b> or an <b>Image</b>. “More” gives access to the pen, highlighter, shapes, links, notes, capture, pages and fonts.</p>
+<h2>Save</h2><p>Tap “Save”, then choose the folder (iCloud Drive, On My iPhone…).</p>
+<h2>Fonts</h2><p>“More > Fonts” lets you add your own fonts (.ttf, .otf) to get exactly the same look as a document.</p>
+<h2>Language</h2><p>“More > View > Language”: automatic (iPhone language), French or English.</p>
+<h2>Questions or problems?</h2><p><a href="https://github.com/gclaudel2/letuspdf/issues">https://github.com/gclaudel2/letuspdf/issues</a></p></div>
+</main></body></html>

diff --git a/sw.js b/sw.js
@@ -1,5 +1,5 @@
 /* Let Us PDF - service worker: works offline once visited, and receives files shared from other apps (Android) */
-const VERSION = 'v15';
+const VERSION = 'v16';
 const CACHE = 'letuspdf-' + VERSION;
 const SHARE = 'letuspdf-share';
 const ASSETS = [
